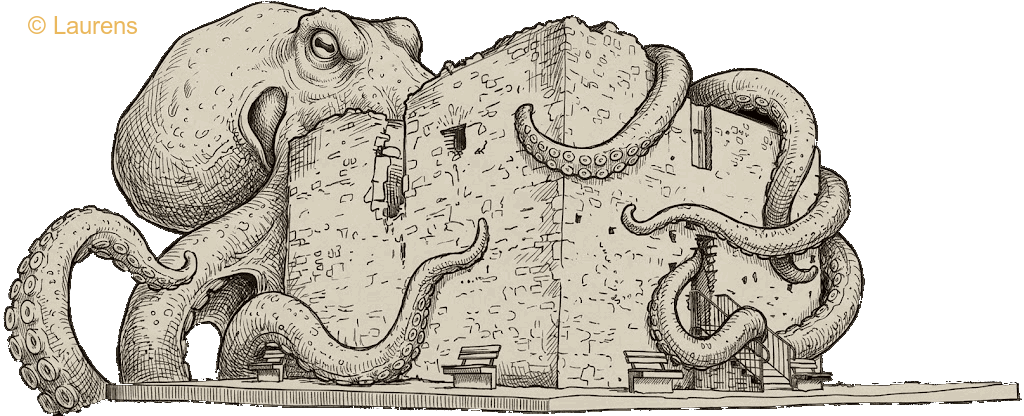
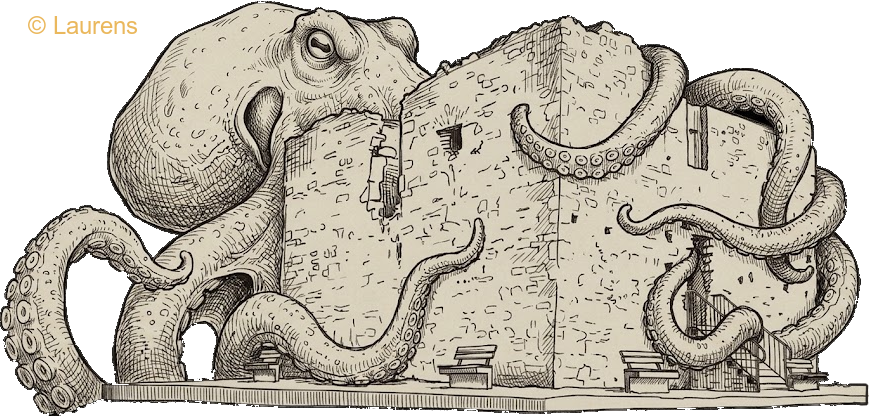
Hero-Redesign: fokussiertes octotabor-Motiv (rechtes Schwarz entfernt, 877×416), füllt rechte Spalte randnah; Tagline unter Spritzer; Unterstützen als eckiger Transparent-Button ohne Diamond; Namensbox Laurens/Alex &/Janik in der Veranstalter-Reihe; Badge zweizeilig (YNOT LIVE groß + verlinkt, Fakte

diff --git a/assets/styles.css b/assets/styles.css
@@ -476,7 +476,7 @@ h1 em {
       /* KEIN justify-content: center — die Seite ist längler als der Viewport.
          Center würde Überlauf nach OBEN verteilen, der nie scrollbar wäre
          („Seite verschluckt den oberen Rand“). */
-      padding: clamp(2rem, 6vw, 5rem);
+      padding: clamp(2rem, 6vw, 5rem) 0 clamp(2rem, 6vw, 5rem) clamp(1.25rem, 3vw, 3rem); /* rechts ohne Padding — Motiv bis zum Rand */
       max-width: 100%;
       overflow-x: hidden; /* Death Defense gegen Mobile-Overflow */
     }
@@ -498,35 +498,46 @@ h1 em {
       z-index: 3; /* über Hero-Ebenen, unter nichts verschiebend */
     }
     .site-header .support-link {
+      position: relative;
       display: inline-block;
-      padding: .4rem 0; /* Touch-Target */
+      padding: .55em 1.2em; /* Button-Maße + Touch-Target */
       font-size: clamp(.68rem, 1.4vw, .8rem);
       font-weight: 500;
       letter-spacing: .32em;
       text-indent: .32em;
       text-transform: uppercase;
       text-decoration: none;
-      text-underline-offset: .35em;
-      text-decoration-thickness: 1px;
-      /* Marken-Gradient (wie „Spritzer“) als Text-Füllung — kein Pill/BG, nur Text */
-      background: linear-gradient(100deg, var(--gold) 5%, var(--coral) 45%, var(--rose) 90%) text;
+      /* eckige Kante wie der Stempel-Look der Seite — Fläche als ::before dahinter,
+         damit background-clip:text (Gradient-Schrift) die Transparenzfläche nicht wegclipt */
+      border: 1px solid rgba(232, 176, 75, .45);
+      border-radius: 2px;
+      /* Marken-Gradient (wie „Spritzer“) als Text-Füllung */
+      background-image: linear-gradient(100deg, var(--gold) 5%, var(--coral) 45%, var(--rose) 90%);
+      -webkit-background-clip: text;
+      background-clip: text;
       color: transparent;
-      filter: drop-shadow(0 0 10px rgba(232, 176, 75, .35));
-      transition: filter .3s ease;
+      transition: border-color .3s ease, filter .3s ease;
+    }
+    .site-header .support-link::before {
+      content: "";
+      position: absolute;
+      inset: 0;
+      z-index: -1;
+      border-radius: inherit;
+      background: rgba(247, 234, 216, .06); /* klare Transparenz */
+      backdrop-filter: blur(2px);
+      transition: background-color .3s ease, box-shadow .3s ease;
     }
     .site-header .support-link:hover,
     .site-header .support-link:focus-visible {
-      font-weight: 600; /* echtes 600 (im Font-Load nachgeladen) statt Fake-Bold */
-      text-decoration: underline;
-      text-decoration-color: var(--gold); /* sonst transparent (currentColor = Gradient-Clip) */
-      filter: drop-shadow(0 0 16px rgba(232, 176, 75, .55));
+      text-decoration: none;
+      border-color: rgba(232, 176, 75, .8);
+      filter: drop-shadow(0 0 12px rgba(232, 176, 75, .3));
     }
-    .site-header .support-diamond {
-      display: inline-block; /*_inline-block: Unterstreichung propagation gestoppt */
-      color: var(--gold);
-      font-size: .55em;
-      vertical-align: .2em;
-      margin-right: .4em;
+    .site-header .support-link:hover::before,
+    .site-header .support-link:focus-visible::before {
+      background-color: rgba(247, 234, 216, .12);
+      box-shadow: 0 0 18px rgba(232, 176, 75, .2);
     }
     .site-header .support-link:focus-visible {
       outline: 2px solid var(--gold);
@@ -536,11 +547,11 @@ h1 em {
     /* ── Hero: 2 Spalten — links Marke+Claim, rechts Tabor+Sonne ── */
     .hero {
       display: grid;
-      grid-template-columns: 1fr auto;
+      grid-template-columns: minmax(0, 1fr) minmax(0, 2.2fr); /* rechte Spalte deutlich größer — Tabor übertrifft den Text */
       align-items: center;
       gap: clamp(1rem, 2vw, 2rem); /* enger — mehr Breite fürs Motiv */
       width: 100%;
-      max-width: 1200px;
+      max-width: none; /* füllt die ganze Breite — Motiv immer randnah rechts */
       padding: clamp(1.5rem, 3vw, 2.5rem) 0; /* vertikale Entfaltung des Heros */
     }
     .hero-left {
@@ -562,8 +573,34 @@ h1 em {
       color: transparent;
     }
     /* Sub-Zeile: Pill ÜBER der Marke — Jost-Versalien, gleiche Stimme wie Facts-Banner */
+    /* YnoT im Badge: fett + verlinkt, bleibt aber in der Sticker-Optik —
+       kein Unterstrich („live“ wäre sonst fälschlich als Link markiert) */
+    .hero-sub .hero-sub-band {
+      font-weight: 800;
+      color: var(--dusk-top);
+      text-decoration: none;
+      transition: opacity .25s ease;
+    }
+    .hero-sub .hero-sub-band:hover,
+    .hero-sub .hero-sub-band:focus-visible {
+      opacity: .65;
+    }
+    .hero-sub .hero-sub-band:focus-visible {
+      outline: 2px solid var(--dusk-top);
+      outline-offset: 2px;
+    }
+    /* YnoT-Badge: größer — der Act ist die Headline-Zeile über dem Sticker */
+    .hero-sub.hero-sub--band {
+      font-size: clamp(.8rem, 1.8vw, 1rem);
+      padding: .7em 1.4em;
+      margin-bottom: .45rem; /* schmalere Spalt zum zweiten Badge */
+    }
+    .hero-sub.hero-sub--second {
+      margin-bottom: clamp(.45rem, 1vw, .7rem);
+    }
     .hero-sub {
       display: inline-block;
+      white-space: nowrap; /* eine Zeile — darf nach rechts ausstreuen */
       margin-bottom: clamp(.45rem, 1vw, .7rem); /* Rhythmus S: Bar→Marke, eng als Einheit */
       padding: .6em 1.2em;
       border: 2px solid var(--dusk-top); /* Tinten-Kontur wie die Sticker + LIVE-Stempel */
@@ -582,6 +619,7 @@ h1 em {
     .hero-right {
       display: flex;
       justify-content: center;
+      min-width: 0;
     }
     .home-main h1 {
       font-family: "Cormorant Garamond", serif; /* explizit — gleiche Schrift wie alle Hero-Elemente */
@@ -602,7 +640,8 @@ h1 em {
       flex: none;
       position: relative;
       z-index: 0; /* hinter dem Text, vor der Sonne */
-      width: clamp(340px, 62vw, 880px); /* größer — die Zeichnung ist das Alleinstellungsmerkmal */
+      width: 100%; /* füllt die rechte Grid-Spalte — füllt den Hero, ohne Überlauf */
+      max-width: none;
       height: auto;
       opacity: .95;
       filter: drop-shadow(0 0 18px rgba(232, 176, 75, .25));
@@ -662,29 +701,28 @@ h1 em {
       .tabor-dl-hint { transition: none; }
     }
     .tabor-wrap {
-      flex: none;
+      flex: 1 1 auto;
+      width: 100%;
+      min-width: 0;
       position: relative;
+      margin-top: clamp(3rem, 5vw, 4.5rem); /* Motiv tief — Sonne klar unter dem 'Unterstützen'-Link */
       display: flex;
       flex-direction: column;
-      align-items: center;
+      align-items: stretch;
       z-index: 1; /* eigener Stacking-Context: hält die Sonne hinter dem Tabor, aber vor dem Seitenhintergrund */
     }
-    /* Urhebervermerk in der Tabor-Illustration (unten rechts, klein) */
+    /* Urhebervermerk AUF der Tabor-Illustration (unten rechts, minimal, leichtgrau) */
     .tabor-credit {
       position: absolute;
-      right: .6rem;
+      right: .5rem;
       bottom: .4rem;
-      font-size: clamp(.5rem, .9vw, .6rem);
-      letter-spacing: .12em;
+      line-height: 1;
+      font-size: clamp(.42rem, .7vw, .5rem);
+      letter-spacing: .1em;
       text-transform: uppercase;
-      font-weight: 500;
-      /* Sonnen-Gradient wie „Spritzer“/„brand-sub“ — komplementär zur Illustration */
-      background: linear-gradient(100deg, var(--gold) 5%, var(--coral) 45%, var(--rose) 90%);
-      -webkit-background-clip: text;
-      background-clip: text;
-      color: transparent;
+      font-weight: 400;
+      color: rgba(255, 255, 255, .35);
       opacity: 1;
-      filter: drop-shadow(0 0 10px rgba(232, 176, 75, .45));
       pointer-events: none;
       z-index: 2;
     }
@@ -692,10 +730,10 @@ h1 em {
        Strahlen animieren weiter (Drehung, Puls, Morph — siehe ::after unten). */
     .sun {
       position: absolute;
-      left: 66%;
-      top: -14%;
-      width: clamp(36px, 6.5vw, 64px);
-      height: clamp(36px, 6.5vw, 64px);
+      left: 70%;
+      top: -18%;
+      width: clamp(40px, 7.5vw, 74px);
+      height: clamp(40px, 7.5vw, 74px);
       pointer-events: none;
       z-index: -1; /* hinter dem Tabor-Bild — die Sonne bleibt hinter der Ruine */
     }
@@ -816,6 +854,27 @@ h1 em {
     .facts-logo-row a:hover { transform: translateY(-2px); }
     .facts-logo-row img[src*="akwi"] { height: clamp(64px, 8vw, 88px); width: auto; border-radius: 6px; }
     .facts-logo-row img[src*="joes"] { height: clamp(64px, 8vw, 88px); width: auto; }
+    /* Die drei Köpfe als Namenszug in einer eckigen Box — gleiche Höhe wie die Logos */
+    .facts-logo-row .facts-crew {
+      margin-left: .5rem;
+      padding: .55em 1.1em;
+      font-size: clamp(.85rem, 1.7vw, 1rem);
+      font-weight: 400;
+      letter-spacing: .05em;
+      line-height: 1.3;
+      color: var(--ink);
+      white-space: nowrap;
+      min-height: clamp(64px, 8vw, 88px); /* gleich wie akwi/joes-Logos */
+      display: inline-flex;
+      flex-direction: column;
+      align-items: flex-start;
+      justify-content: center;
+      box-sizing: border-box;
+      border: none;
+      border-radius: 2px;
+      background: #fffdf8;
+      box-shadow: 4px 4px 0 rgba(34, 21, 40, .18);
+    }
     .facts-logo-row a:focus-visible { outline: 2px solid var(--gold); outline-offset: 3px; }
 
     /* Spalten 2+3: Facts zweireihig — Hauptzeile + Sub-Zeile */

diff --git a/index.html b/index.html
@@ -69,22 +69,21 @@
   </div>
   <main class="home-main" id="main">
     <header class="site-header">
-      <a class="support-link" href="/partner"><span class="support-diamond" aria-hidden="true">◆</span>Unterstützen</a>
+      <a class="support-link" href="/partner">Unterstützen</a>
     </header>
     <div class="hero">
       <div class="hero-left">
-        <p class="hero-sub">Livemusik · Foodtruck · Freier Eintritt</p>
+        <p class="hero-sub hero-sub--band"><a class="hero-sub-band" href="https://www.instagram.com/yourynot" target="_blank" rel="noopener">YnoT</a> live</p>
+        <p class="hero-sub hero-sub--second">Foodtruck · Freier Eintritt</p>
         <h1><span class="l1">Seeblick</span><span class="l2">Sounds <em>&amp;</em></span><span class="l3"><em>Spritzer</em></span></h1>
         <p class="brand-sub">der Sundowner am Tabor</p>
       </div>
       <div class="hero-right">
         <div class="tabor-wrap">
           <a class="tabor-dl" href="assets/sundowner-hero.png" download aria-label="Hero-Illustration herunterladen">
-            <img class="tabor" src="assets/tabor.png" alt="Ruine Tabor" width="1024" height="416">
-            <span class="tabor-dl-hint" aria-hidden="true">⬇</span>
+            <img class="tabor" src="assets/tabor.png" alt="Ruine Tabor" width="877" height="416">
           </a>
           <span class="sun" aria-hidden="true"></span>
-          <span class="tabor-credit">© Laurens</span>
         </div>
       </div>
     </div>
@@ -98,6 +97,7 @@
           <a href="https://www.joespubneusiedl.at/" target="_blank" rel="noopener">
             <img src="assets/joes-pub.png" alt="Joe's Pub Neusiedl am See" width="377" height="296">
           </a>
+          <span class="facts-crew" aria-label="Die drei Schüler hinter dem SunDowner">Laurens<br>Alex &amp;<br>Janik</span>
         </div>
         <p class="facts-logos-label">Veranstalter des Schülerspecials</p>
       </div>
